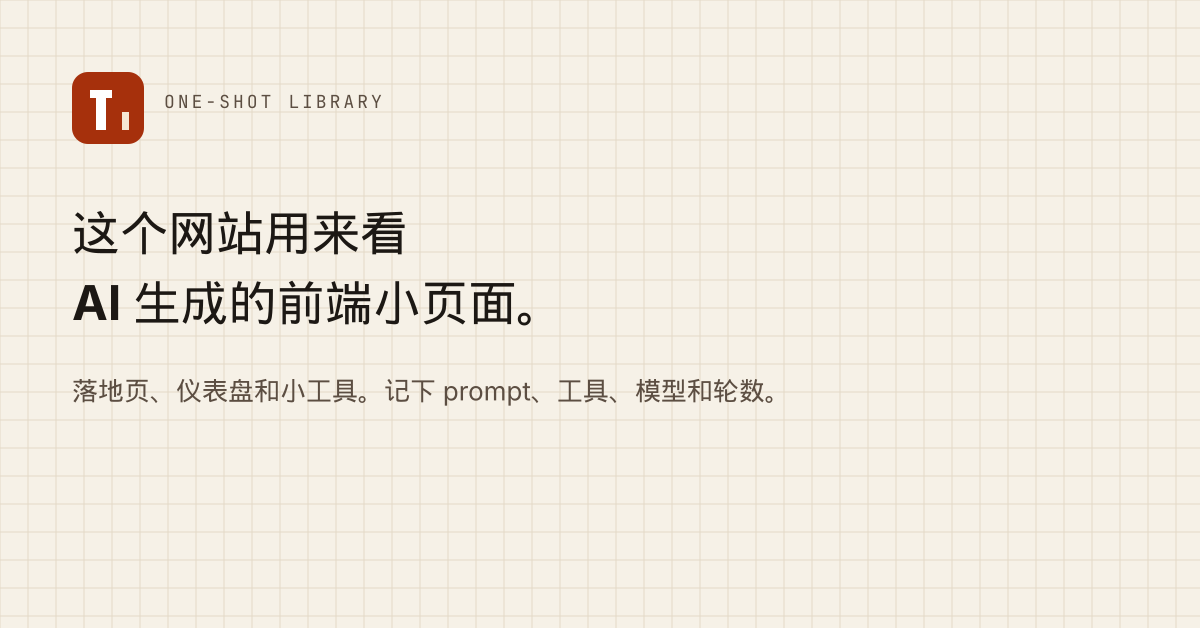
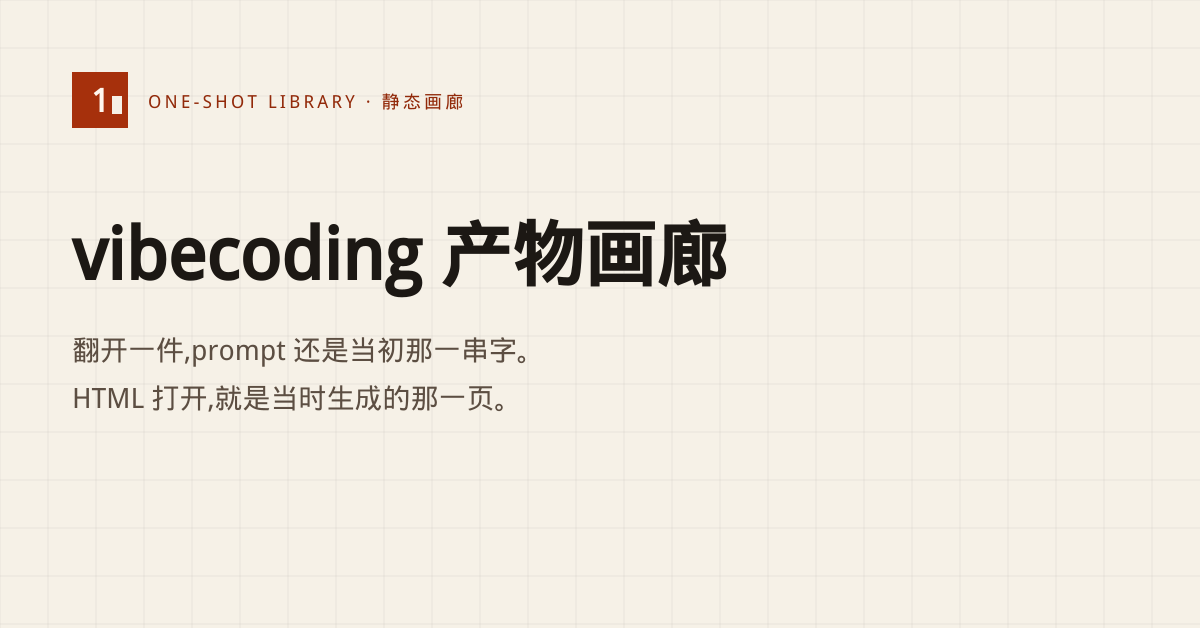
docs: 首页改成 vibecoding 产物画廊
标题换成画廊名,说明改成更有画面的句子,并删掉「没有打分也没有投票」。关于页、页脚、README 和分享图跟着改。

Changed region(s): [[0.0617, 0.3328, 0.6167, 0.5748], [0.0617, 0.6051, 0.6475, 0.6656], [0.0617, 0.121, 0.4008, 0.242]]

diff --git a/src/pages/rss.xml.ts b/src/pages/rss.xml.ts
@@ -9,7 +9,7 @@ export const GET = async () => {
 
   return rss({
     title: `${SITE?.name} — 新收录`,
-    description: METADATA?.description ?? '收录 AI 做的前端小页面',
+    description: METADATA?.description ?? '一间 vibecoding 产物画廊',
     site: SITE?.site ?? '',
     items: shots.map((shot) => ({
       title: shot.title,

diff --git a/README.md b/README.md
@@ -1,6 +1,6 @@
 # One-Shot Library
 
-这个网站用来看 AI 生成的前端小页面,比如落地页、仪表盘和小工具。有的只对话了一轮,有的来回改过几轮。每件作品都记下当时的对话、用的工具和模型,并附上能打开的 HTML。仓库名仍是 One-Shot Library。
+一间 vibecoding 产物画廊。有些页面只经过一轮对话就写成了,有些则改过许多轮才定下来。落地页、仪表盘和小工具都在。翻开一件,prompt 还是当初那一串字,工具和轮数写在旁边,HTML 打开就是当时生成的那一页。仓库名仍是 One-Shot Library。
 
 基于 [AstroWind](https://github.com/onwidget/astrowind)(Astro 7 + Tailwind CSS v4)构建。页面以静态 HTML 发布,详情页用 iframe 看最终结果,对话按时间线排列。
 
